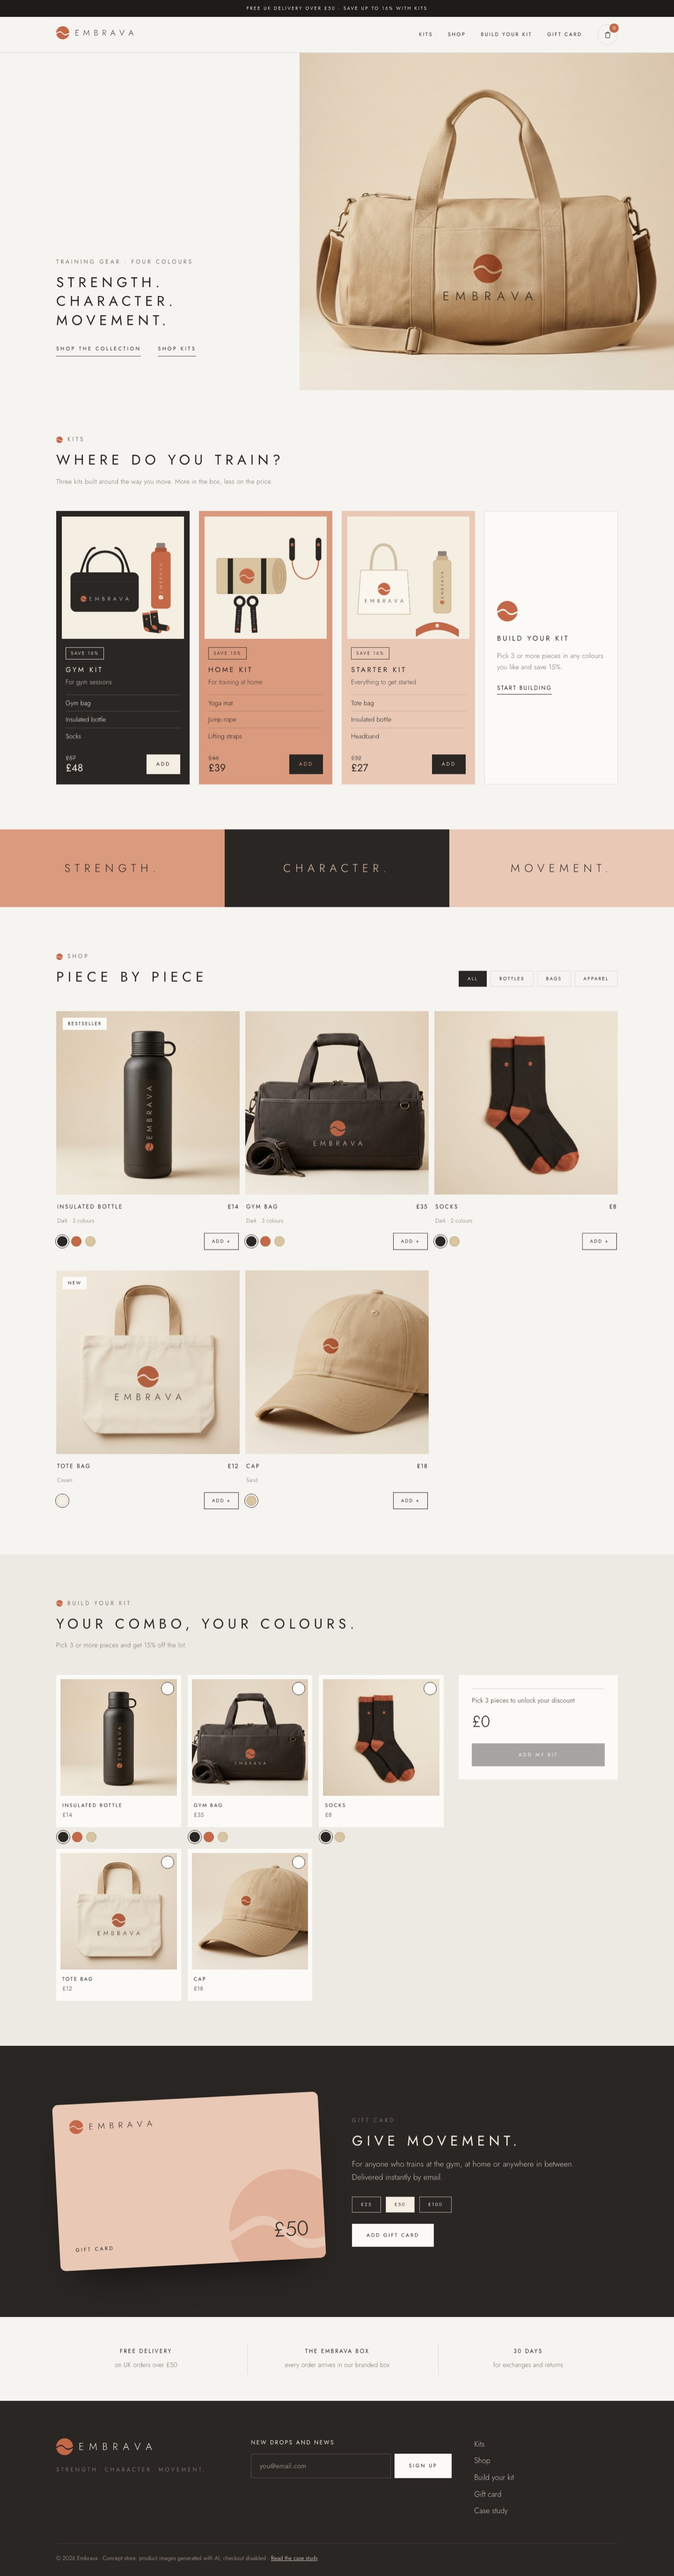
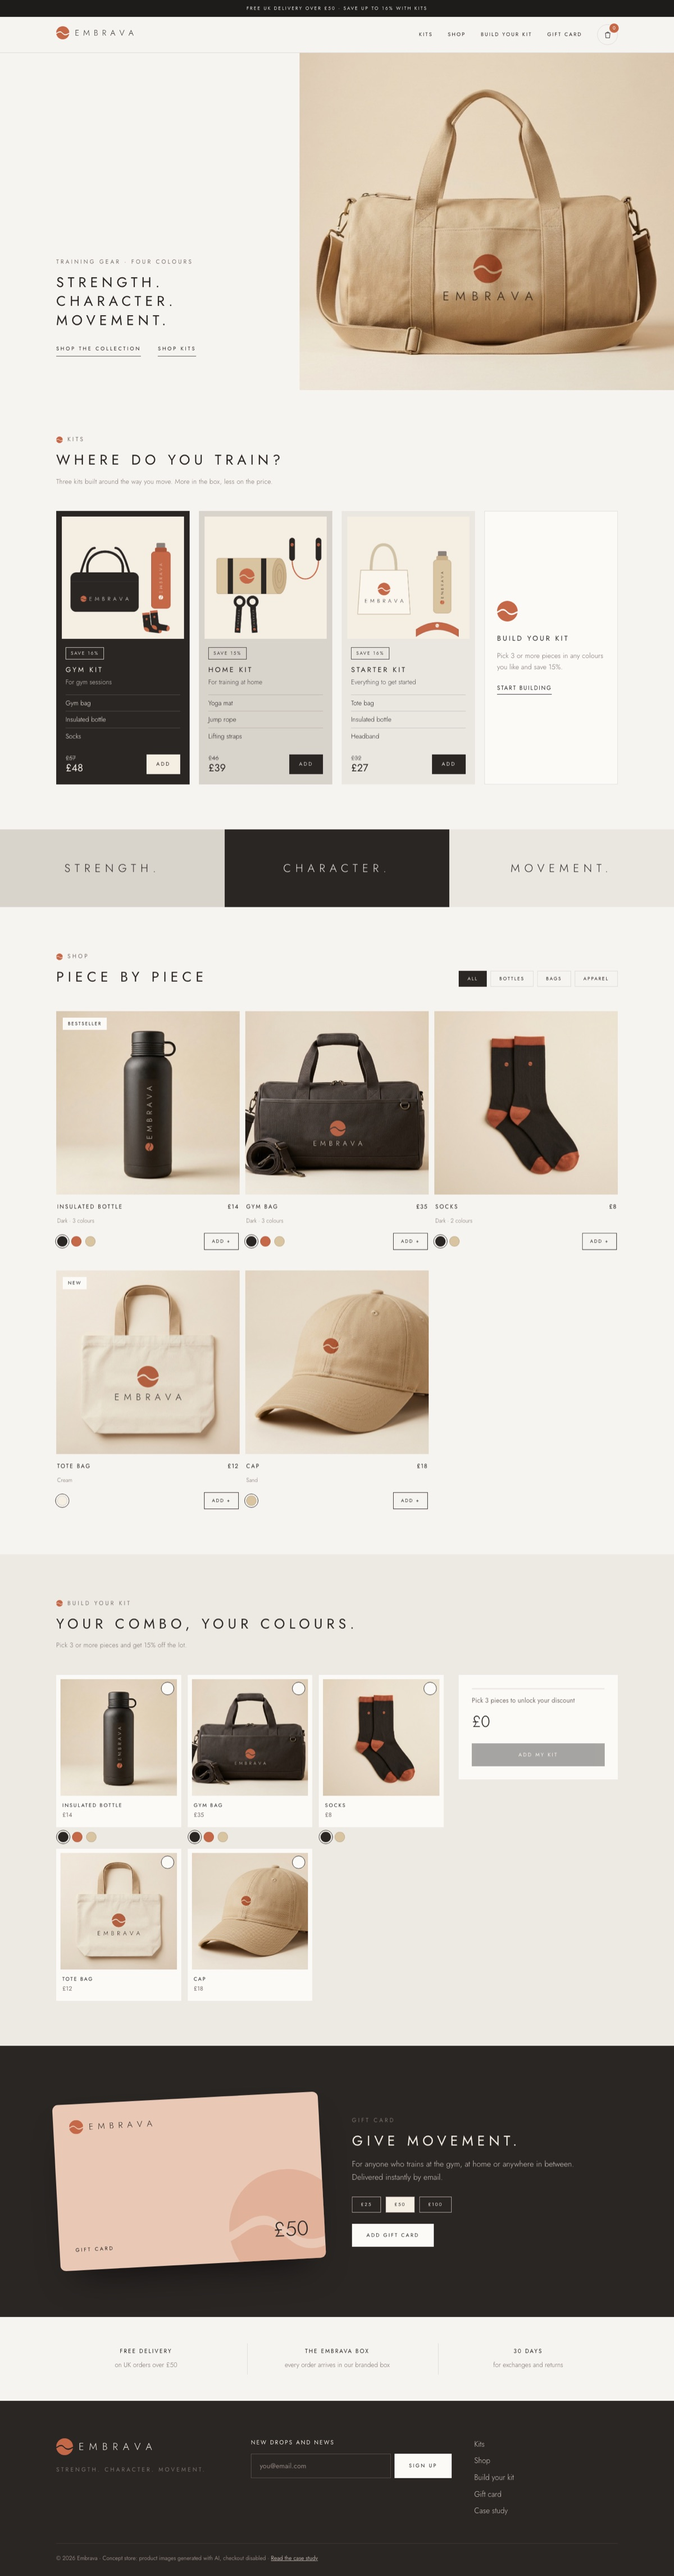
Move kits, brand band and kit offers to neutral tones

Changed region(s): [[0.0, 0.1872, 1.0, 0.3743]]

diff --git a/styles.css b/styles.css
@@ -16,6 +16,8 @@
   --surface-2: #EDEAE4;
   --on-dark: var(--cream);
   --grey: #B8ACA3;
+  --stone: #D8D3CB;
+  --stone-light: #EAE7E1;
   --radius: 0px;
   --font: "Jost", system-ui, -apple-system, "Segoe UI", sans-serif;
 }
@@ -146,8 +148,8 @@ strong { font-weight: 500; }
   transition: transform .3s;
 }
 .kit:hover { transform: translateY(-3px); }
-.kit--terracotta { --bg: var(--terracotta-soft); --fg: var(--dark); --accent: var(--dark); }
-.kit--sand { --bg: var(--blush); --fg: var(--dark); --accent: var(--terracotta); }
+.kit--terracotta { --bg: var(--stone); --fg: var(--dark); --accent: var(--dark); }
+.kit--sand { --bg: var(--stone-light); --fg: var(--dark); --accent: var(--dark); }
 .kit__img { border-radius: 0; aspect-ratio: 1; object-fit: cover; margin-bottom: 18px; }
 .kit__body { padding: 0 8px; display: flex; flex-direction: column; flex: 1; }
 .kit__badge { align-self: flex-start; font-size: 10px; letter-spacing: .2em; text-transform: uppercase; padding: 4px 10px; border-radius: 0; border: 1px solid currentColor; opacity: .85; margin-bottom: 14px; }
@@ -174,9 +176,9 @@ strong { font-weight: 500; }
 /* Brand band */
 .band { display: grid; grid-template-columns: repeat(3, 1fr); }
 .band__item { padding: 64px 24px; text-align: center; font-size: clamp(16px, 2vw, 24px); font-weight: 300; letter-spacing: .4em; text-transform: uppercase; }
-.band__item--terracotta { background: var(--terracotta-soft); color: var(--dark); }
-.band__item--dark { background: var(--dark); color: var(--blush); }
-.band__item--sand { background: var(--blush); color: var(--dark); }
+.band__item--terracotta { background: var(--stone); color: var(--dark); }
+.band__item--dark { background: var(--dark); color: var(--stone-light); }
+.band__item--sand { background: var(--stone-light); color: var(--dark); }
 
 /* Filters */
 .filters { display: flex; gap: 8px; flex-wrap: wrap; }
@@ -411,8 +413,8 @@ strong { font-weight: 500; }
   display: grid; grid-template-columns: 76px 1fr auto; gap: 16px; align-items: center;
   background: var(--bg); color: var(--fg); border-radius: var(--radius); padding: 12px 16px 12px 12px; margin-bottom: 28px;
 }
-.upsell--sand { --bg: var(--blush); --fg: var(--dark); }
-.upsell--terracotta { --bg: var(--terracotta-soft); --fg: var(--dark); }
+.upsell--sand { --bg: var(--stone-light); --fg: var(--dark); }
+.upsell--terracotta { --bg: var(--stone); --fg: var(--dark); }
 .upsell img { width: 76px; height: 76px; border-radius: 0; object-fit: cover; }
 .upsell p { margin: 0; }
 .upsell__eyebrow { font-weight: 500; font-size: 15px; }
